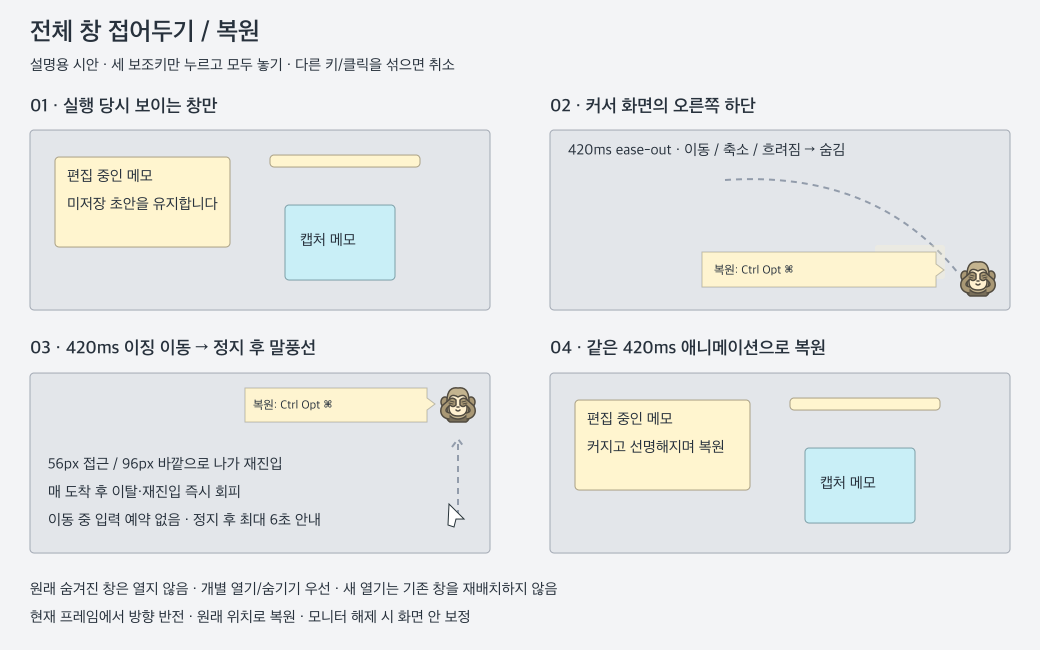
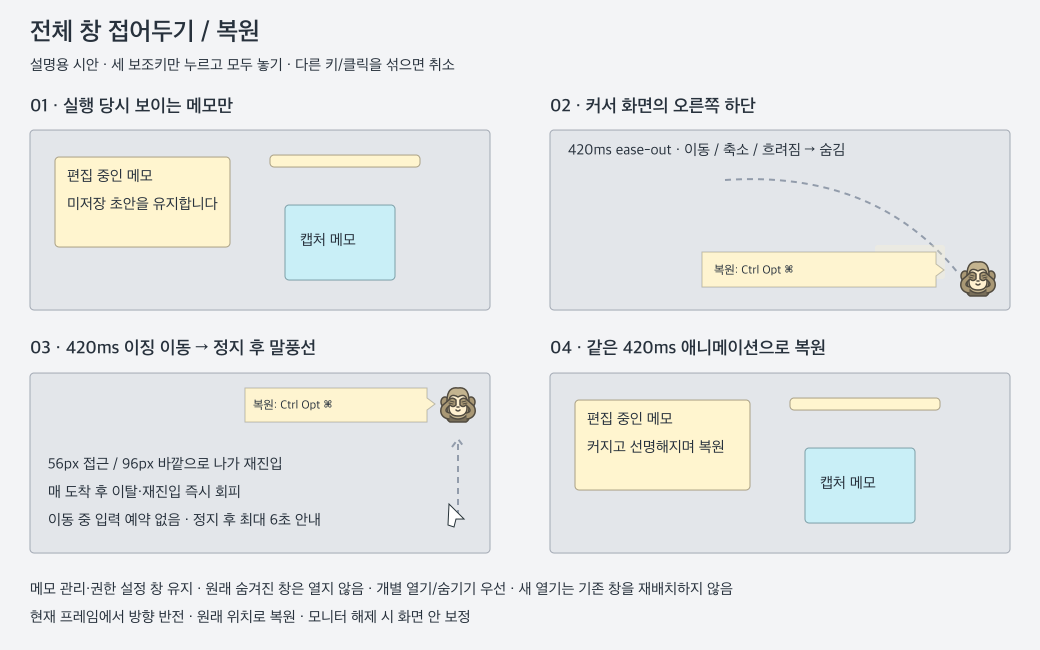
감추기 대상을 메모 창으로 제한해 관리 창과 권한 창 유지

Changed region(s): [[0.0308, 0.8923, 0.7077, 0.9231], [0.1846, 0.1538, 0.2154, 0.1846]]

diff --git a/src-tauri/src/stash.rs b/src-tauri/src/stash.rs
@@ -407,12 +407,24 @@ pub fn cancel_chord(app: &tauri::AppHandle) {
     }
 }
 fn snapshot_candidate(label: &str) -> bool {
-    !matches!(
-        label,
-        ICON | GUIDE | "layout-undo" | "memo-overview" | "memo-backdrop"
-    ) && !label.starts_with("relation-prototype-")
-        && !label.starts_with("relation-pick-")
-        && label != "relation-settings"
+    crate::layout::arrangement_id(label).is_some()
+}
+
+// AppKit's application menu and Command-H use NSApplication.hide directly.
+#[cfg(target_os = "macos")]
+pub(crate) fn configure_native_hide(window: tauri::Window) {
+    if snapshot_candidate(window.label()) {
+        return;
+    }
+    let target = window.clone();
+    if let Err(e) = window.run_on_main_thread(move || match target.ns_window() {
+        Ok(ptr) => unsafe {
+            (&*(ptr as *const objc2_app_kit::NSWindow)).setCanHide(false);
+        },
+        Err(e) => eprintln!("창 감추기 정책 적용 실패: {e}"),
+    }) {
+        eprintln!("창 감추기 정책 예약 실패: {e}");
+    }
 }
 fn compact(r: Rect, area: Rect, top: bool) -> Rect {
     let w = (r.w * 0.18).max(144.).min(r.w);
@@ -1232,23 +1244,27 @@ mod tests {
         assert!(c.sample(0, false, false));
     }
     #[test]
-    fn derived_connections_never_enter_the_memo_stash_snapshot() {
+    fn only_memo_hosts_enter_the_stash_snapshot() {
         for label in [
             "stash-indicator",
             GUIDE,
             "layout-undo",
             "relation-prototype-0",
             "relation-prototype-7",
+            "manager",
+            "permissions",
+            "capture-0",
+            "memo-overview",
+            "future-utility",
         ] {
             assert!(!snapshot_candidate(label));
         }
         for label in [
             "main",
             "note-one",
-            "capture-0",
+            "note-image-1",
             "terminal-1",
             "webview-web-one",
-            "manager",
         ] {
             assert!(snapshot_candidate(label));
         }

diff --git a/src-tauri/src/main.rs b/src-tauri/src/main.rs
@@ -570,6 +570,11 @@ fn serve(endpoint: ipc::Endpoint, initial_open: bool) -> Result<(), String> {
     #[cfg(target_os = "macos")]
     let builder = builder
         .activate_ignoring_other_apps(false)
+        .plugin(
+            tauri::plugin::Builder::<_, ()>::new("memo-hide")
+                .on_window_ready(stash::configure_native_hide)
+                .build(),
+        )
         .manage(toolbar_pointer::Pointers::default());
     let app = builder
         .plugin(tauri_plugin_clipboard_manager::init())

diff --git a/README.md b/README.md
@@ -42,7 +42,7 @@
 
 ## 전체 창 접어두기 / 복원
 
-**Ctrl+Alt+Cmd(macOS) / Ctrl+Alt+Win(Windows) 세 키만 눌렀다가 모두 놓기** 또는 트레이의 **숨김**으로 현재 보이는 메모·캡처 선택 창을 잠시 치울 수 있습니다. 창들이 커서가 있는 화면의 오른쪽 하단으로 작아지고 흐려지며 숨겨지고, 반투명 아이콘만 남습니다. 아이콘에 접근하면 다른 가장자리로 이동하고 실제 단축키와 복원 안내를 6초 표시합니다.
+**Ctrl+Alt+Cmd(macOS) / Ctrl+Alt+Win(Windows) 세 키만 눌렀다가 모두 놓기** 또는 트레이의 **숨김**으로 현재 보이는 텍스트·이미지·웹·터미널 메모를 잠시 치울 수 있습니다. 메모 관리, 권한 설정 및 캡처 선택 창은 계속 표시됩니다. 창들이 커서가 있는 화면의 오른쪽 하단으로 작아지고 흐려지며 숨겨지고, 반투명 복원 아이콘이 표시됩니다. 아이콘에 접근하면 다른 가장자리로 이동하고 실제 단축키와 복원 안내를 6초 표시합니다.
 
 같은 키를 다시 누르면 이번 동작으로 숨긴 창만 아이콘 위치에서 커지고 선명해지며 원래 위치·크기·접힘 상태로 복원합니다(420ms). 원래 숨겨진 창은 열지 않으며 포커스·편집 초안·진행 중 작업을 유지합니다. 모니터가 해제되면 남은 화면 안으로 보정합니다. 숨김은 프로세스 종료가 아닙니다.
 
